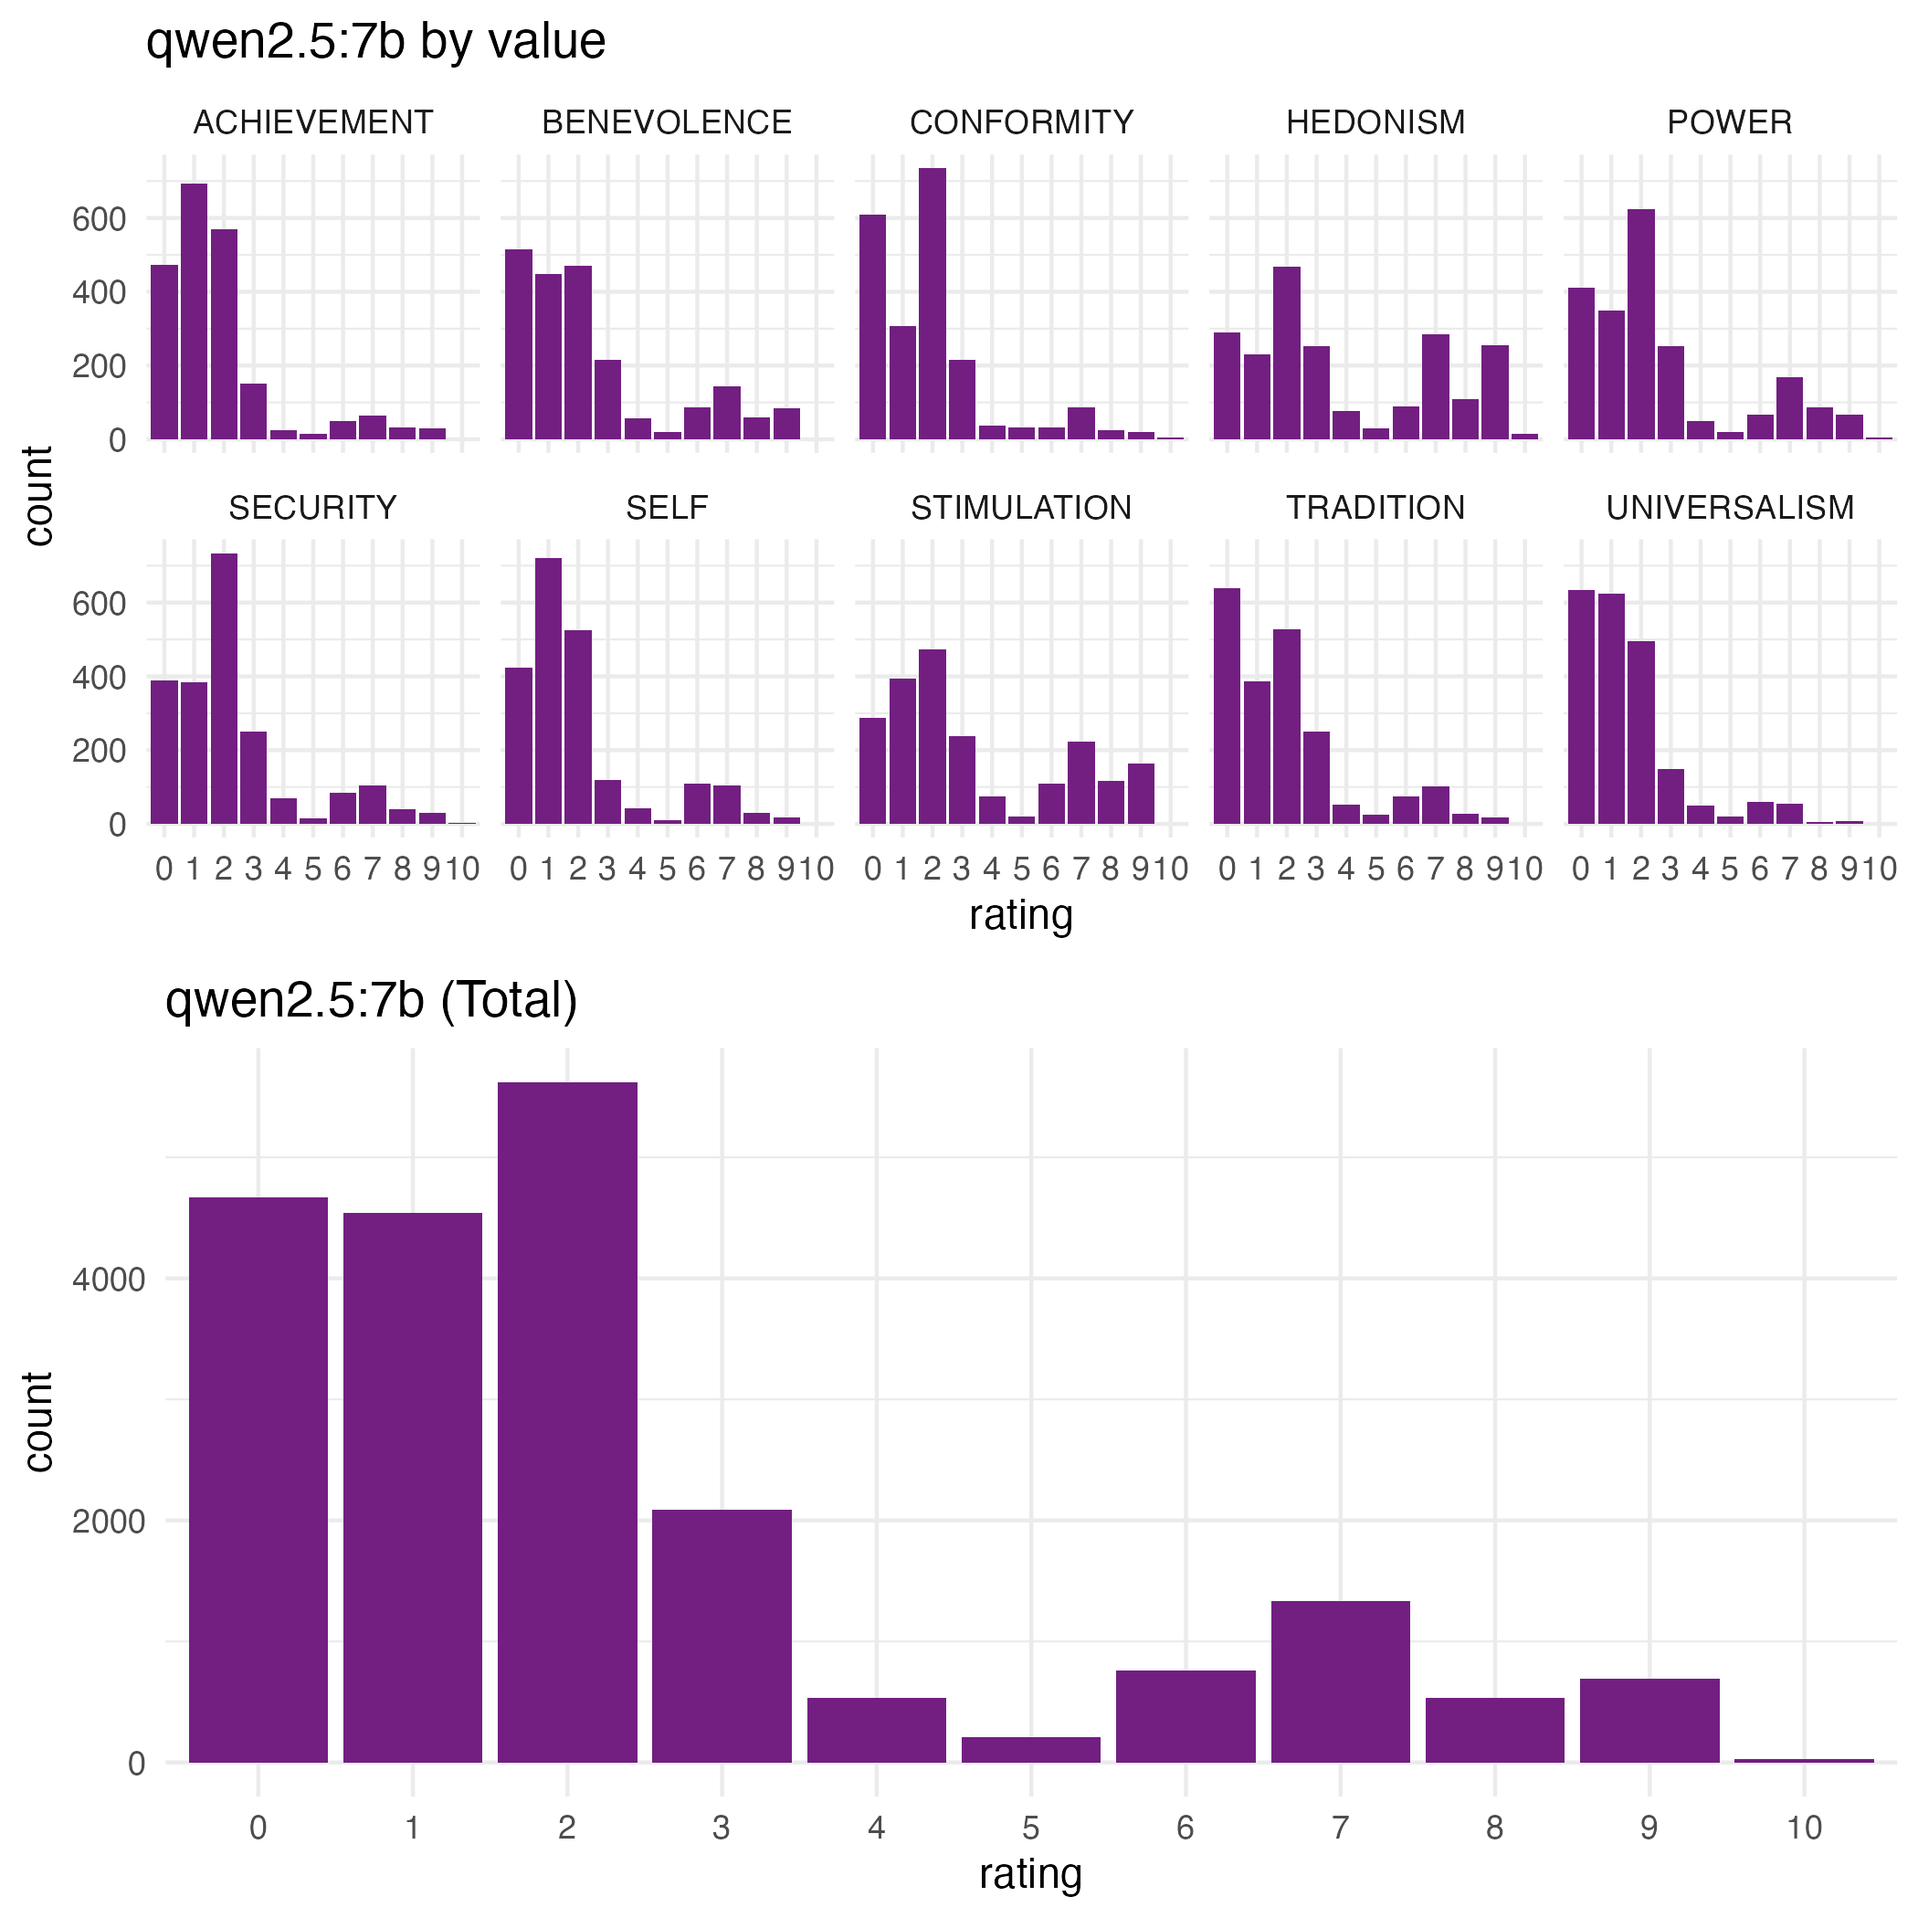
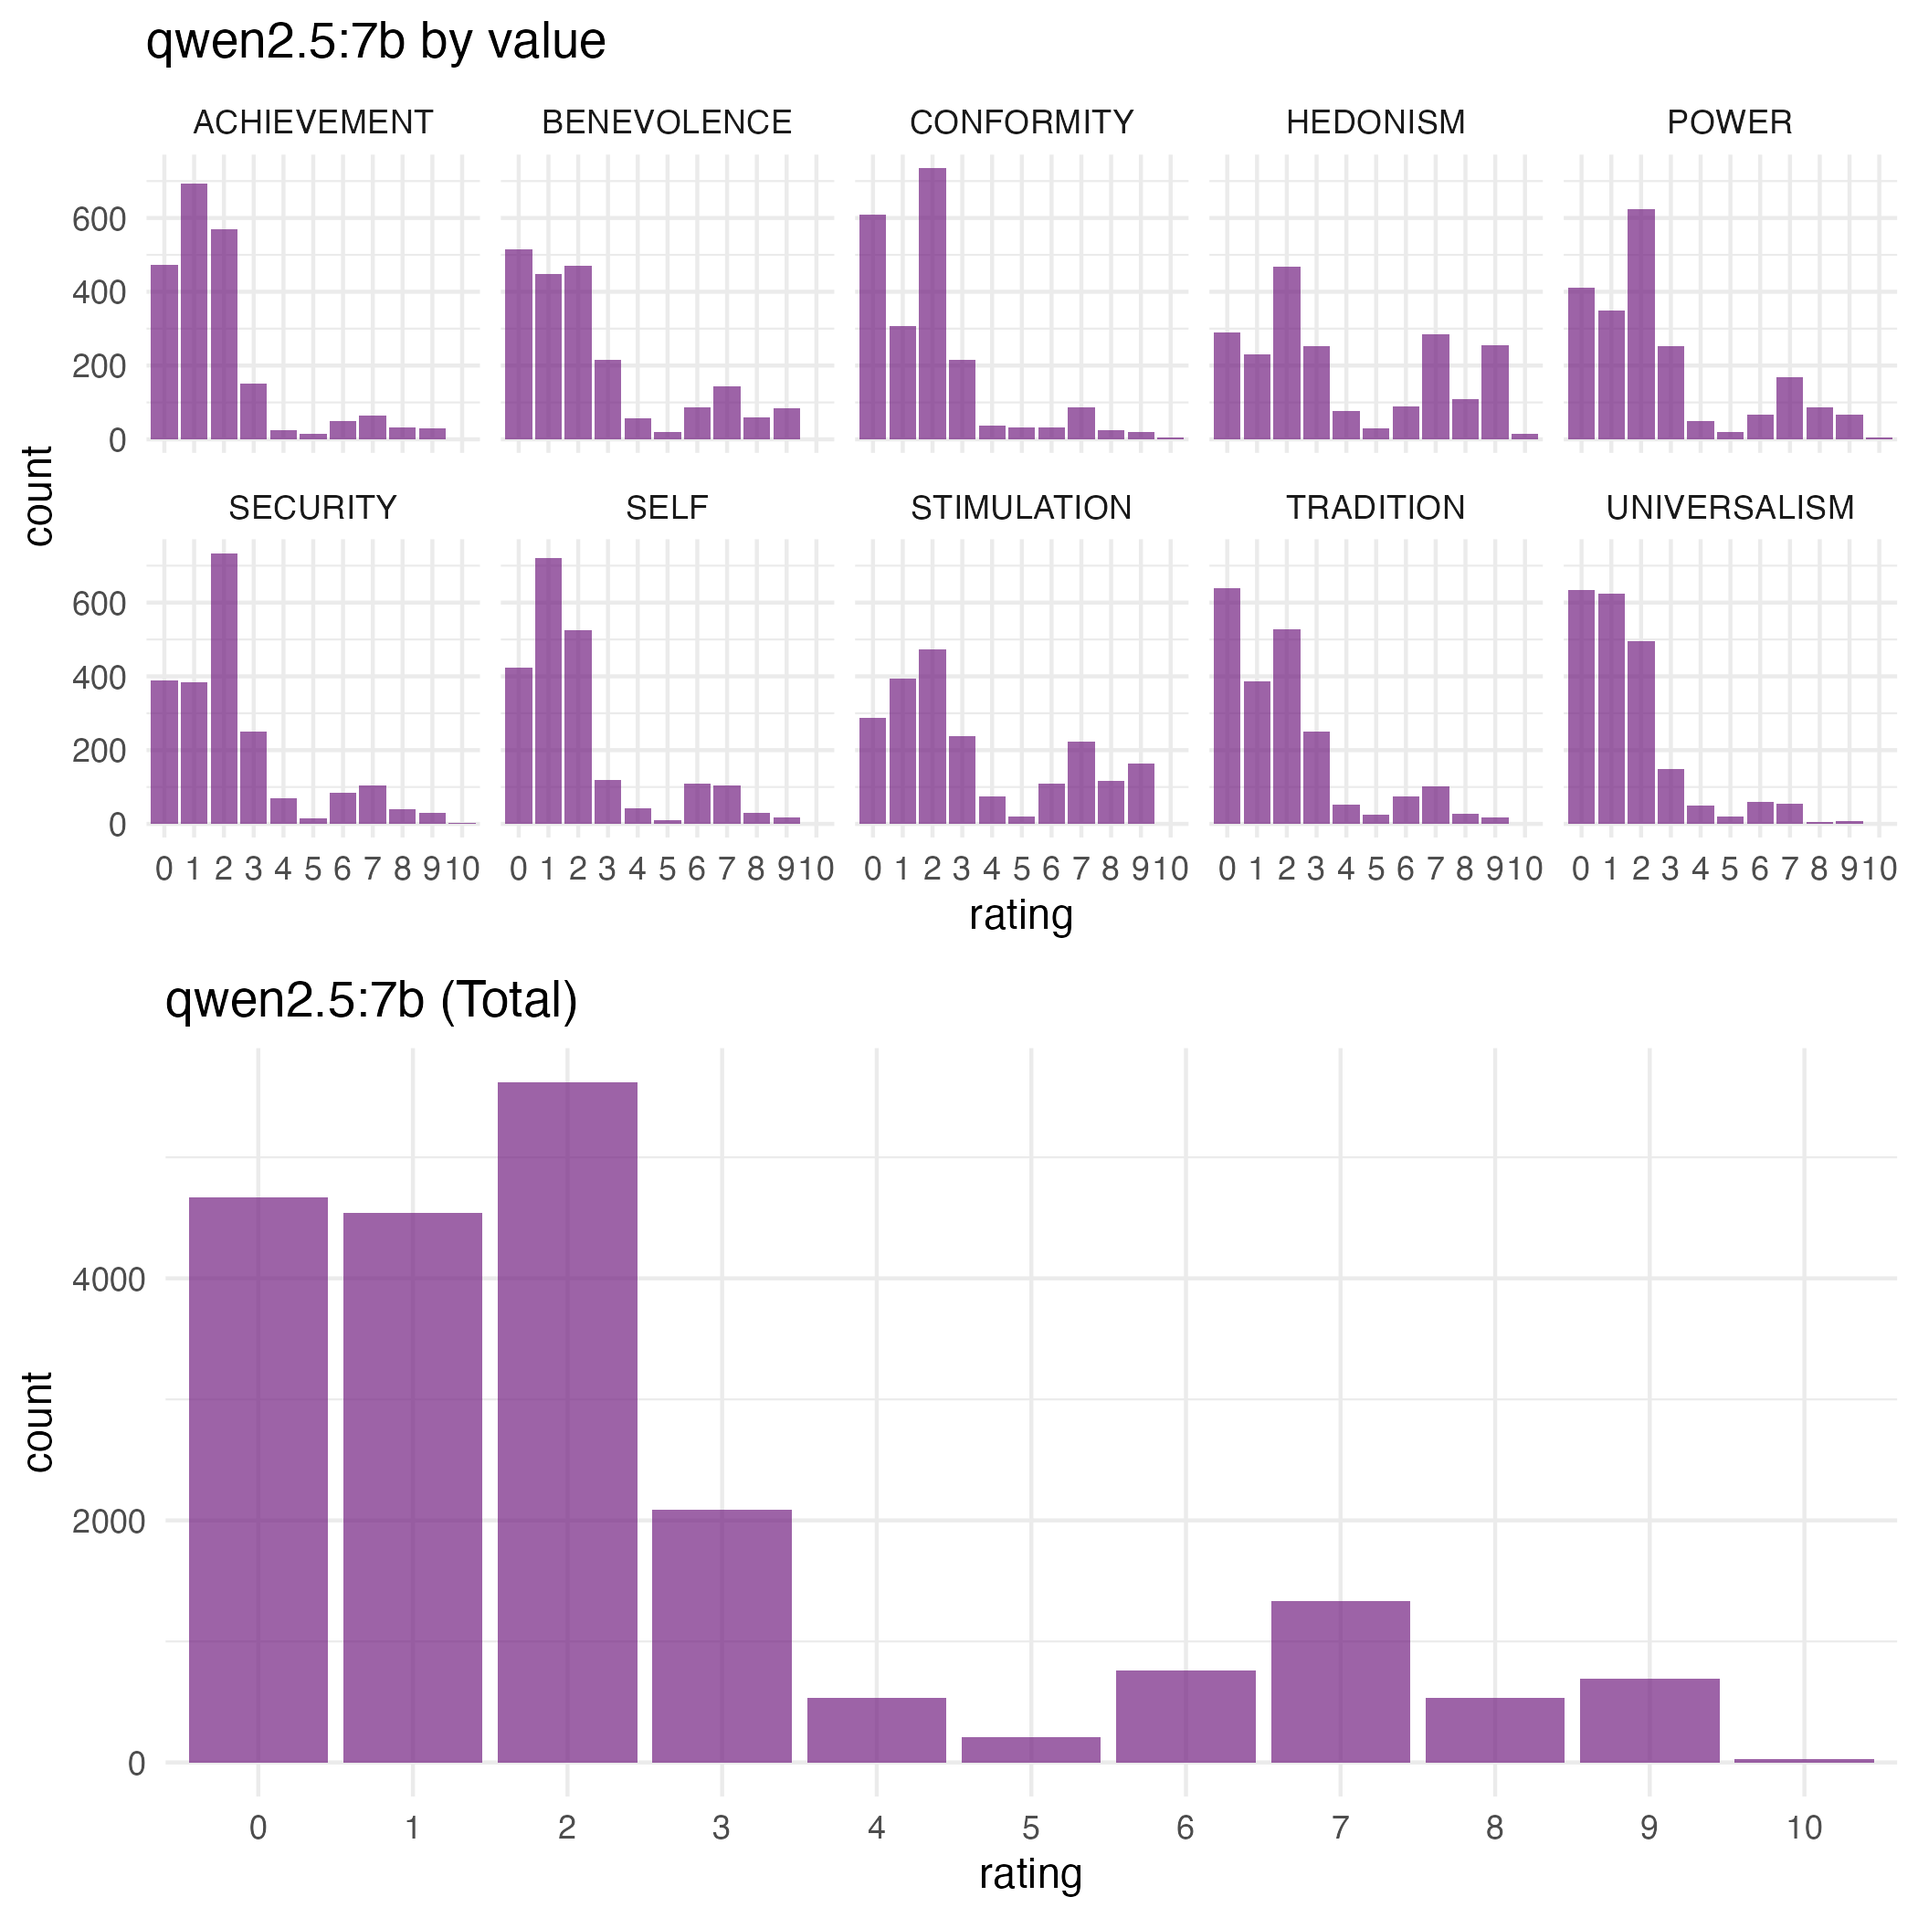
added transparency to plots

diff --git a/docs/index.html b/docs/index.html
@@ -157,6 +157,15 @@ ul.task-list li input[type="checkbox"] {
 <p><img src="images/participant_confidence_subjectivity.png" class="img-fluid quarto-figure quarto-figure-center figure-img"></p>
 </figure>
 </div>
+<p>To determine the number of ratings per song, we used a bootstrapping procedure. We subsampled participants in increments of 5, 25 times each, and estimated inter-rater reliability, using the intra-class correlation coefficient. As we intend to use the mean of several ratings, we use type 2k. In addition, we compute the pearson correlation between the mean ratings of subsamples, and the overall mean.</p>
+<p>We set a threshold at pearson correlations of .9, and ICC2k correlations at .75. We observe that we exceed the threshold at 15 ratings.</p>
+<div class="quarto-figure quarto-figure-center">
+<figure class="figure">
+<p><img src="images/pilot_participants_bootstrap_ICC2k_r.png" class="img-fluid quarto-figure quarto-figure-center figure-img"></p>
+</figure>
+</div>
+<p>In our main data collection wave, we observe that the ICC2 scores show that participants don’t indicate the same score for the lyrics they annotate. However, the ICC2k scores are high, indicating that the scores from participants correlate.</p>
+<p><img src="images/wave_participants_ICC2_ICC2k.png" class="img-fluid"></p>
 </section>
 <section id="pilot-study-model-selection-and-run-number-estimation" class="level1">
 <h1>Pilot Study: Model Selection and Run Number Estimation</h1>
